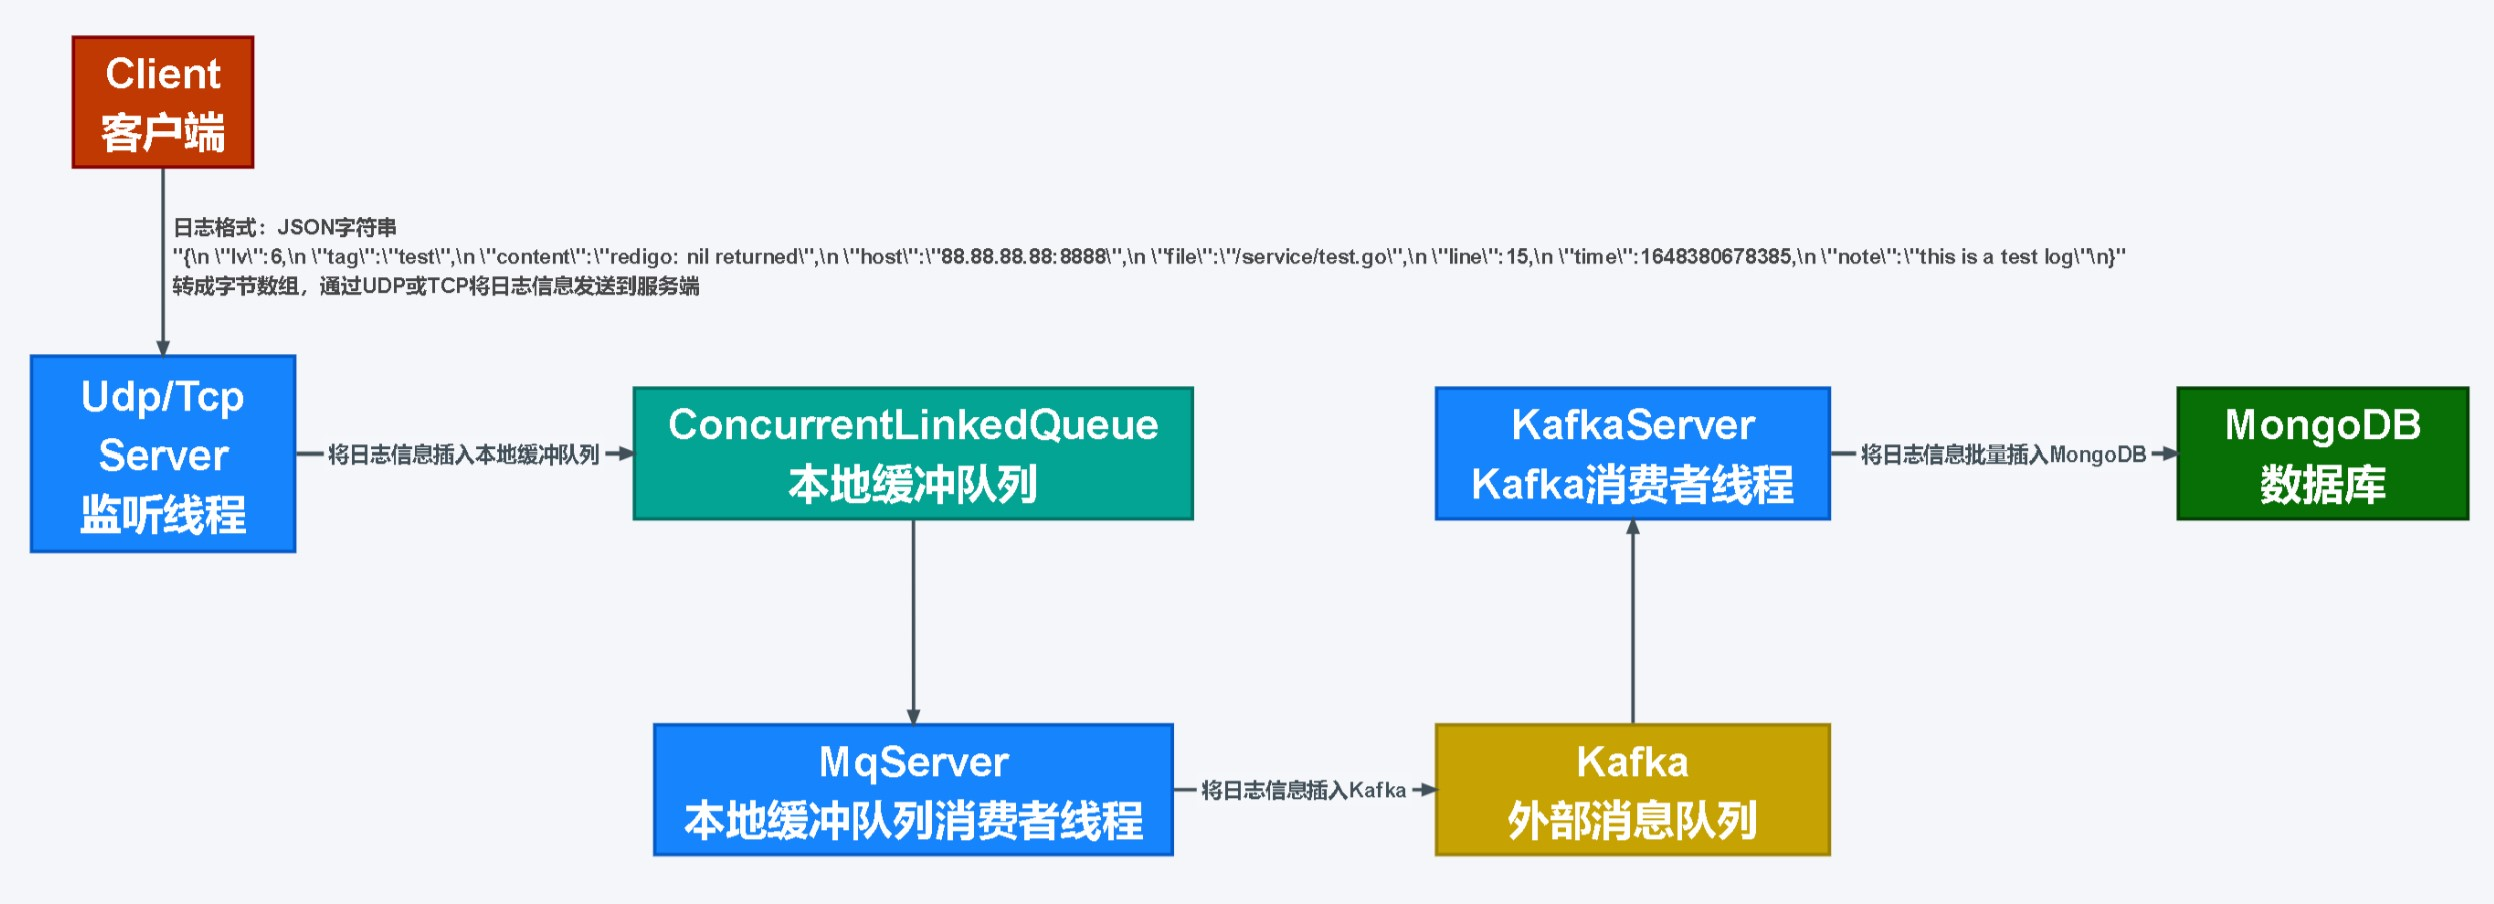
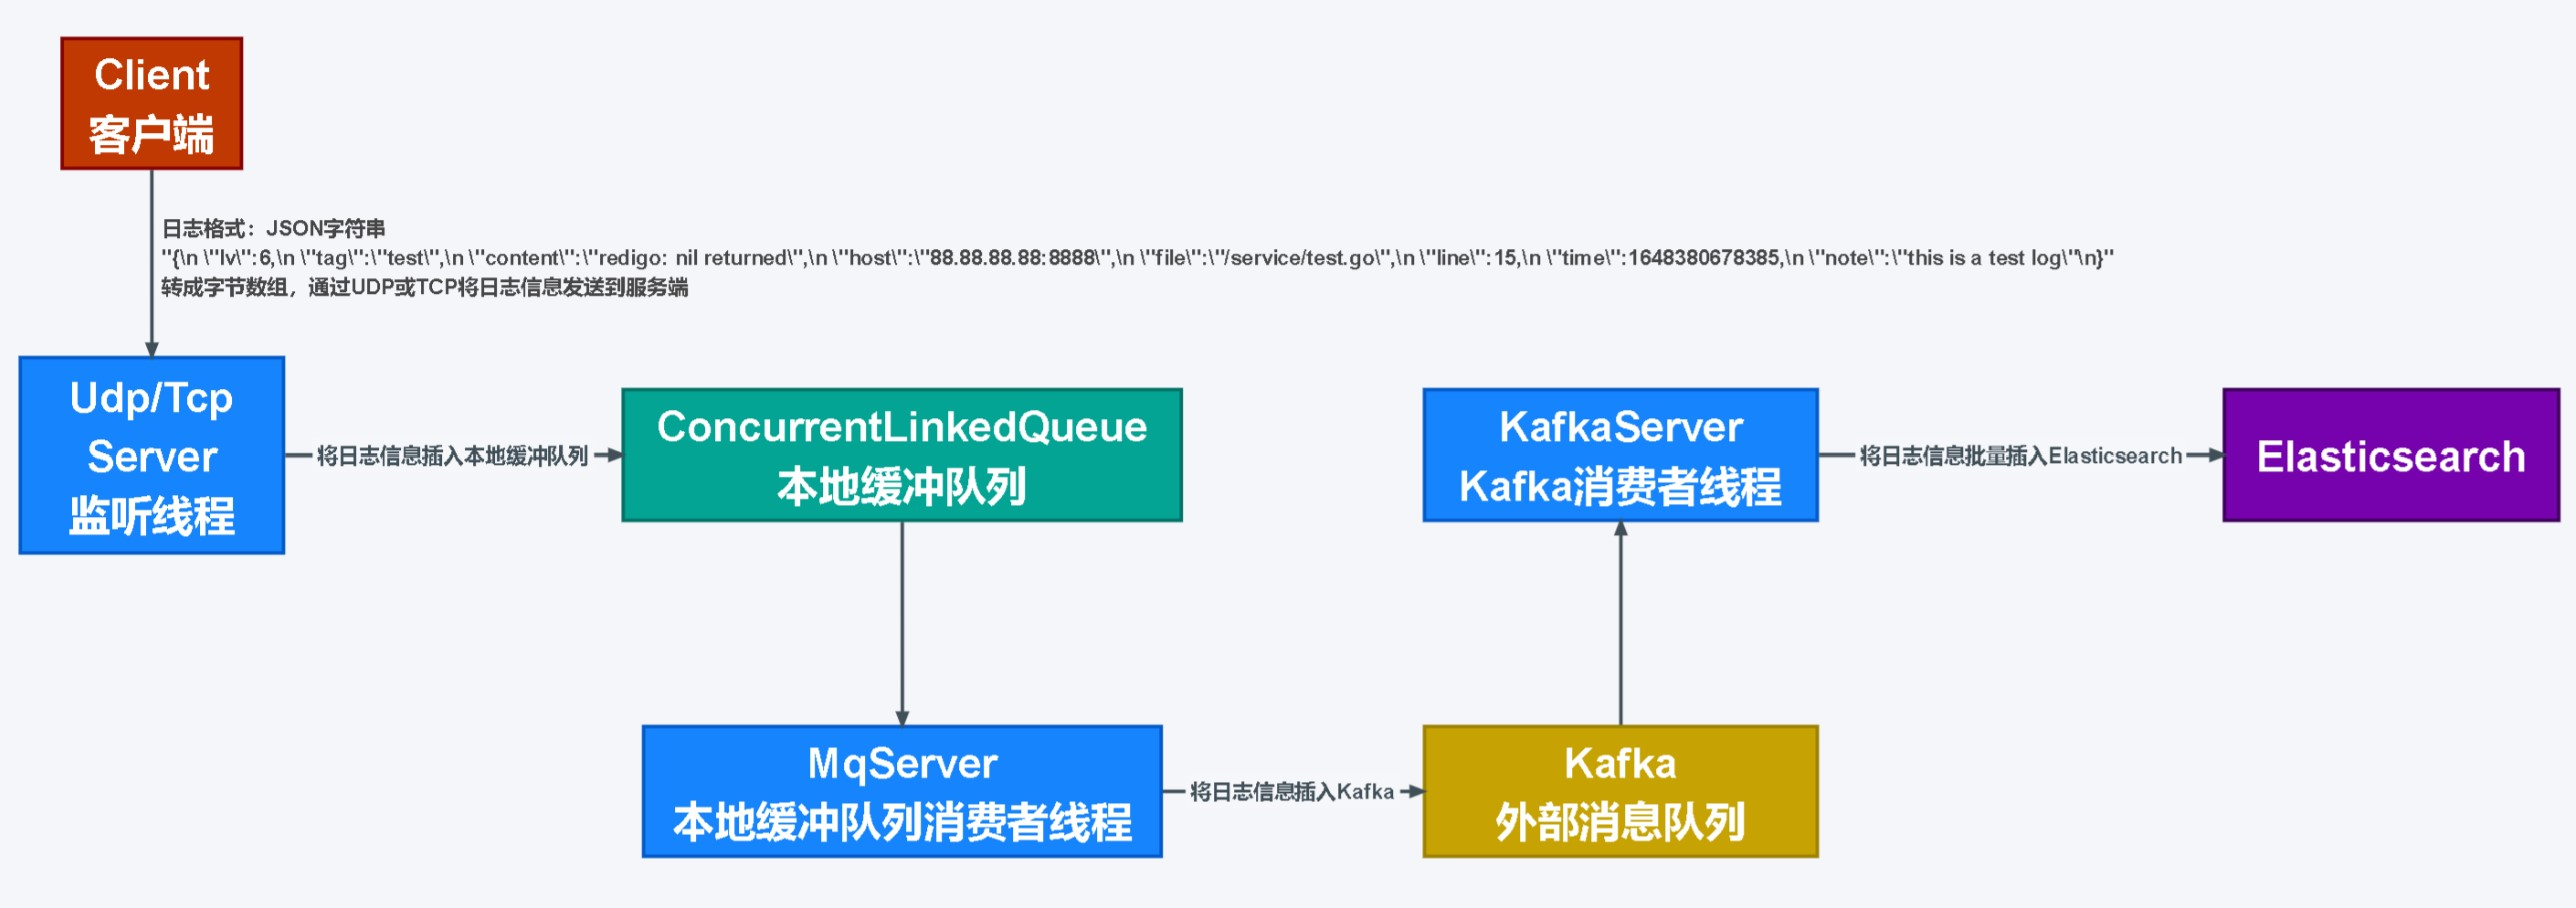
1

Changed region(s): [[0.0, 0.3717, 0.741, 0.9602], [0.5249, 0.4027, 1.0, 0.5885], [0.0, 0.031, 0.8645, 0.3407]]

diff --git a/src/main/java/com/dpwgc/ringlog/RinglogApplication.java b/src/main/java/com/dpwgc/ringlog/RinglogApplication.java
@@ -3,12 +3,25 @@ package com.dpwgc.ringlog;
 import org.springframework.boot.SpringApplication;
 import org.springframework.boot.autoconfigure.SpringBootApplication;
 import org.springframework.boot.web.servlet.ServletComponentScan;
+import org.springframework.context.annotation.Bean;
+import org.springframework.context.support.PropertySourcesPlaceholderConfigurer;
 import org.springframework.data.elasticsearch.repository.config.EnableElasticsearchRepositories;
 
 @EnableElasticsearchRepositories(basePackages = "com.dpwgc.ringlog.dao")
 @SpringBootApplication
 @ServletComponentScan
 public class RinglogApplication {
+
+    /**
+     * 让@Document(indexName = "xxx")能读取到配置文件中的字段
+     */
+    @Bean
+    public static PropertySourcesPlaceholderConfigurer placeholderConfigurer() {
+
+        PropertySourcesPlaceholderConfigurer c = new PropertySourcesPlaceholderConfigurer();
+        c.setIgnoreUnresolvablePlaceholders(true);
+        return c;
+    }
 
     public static void main(String[] args) {
         SpringApplication.run(RinglogApplication.class, args);

diff --git a/src/main/java/com/dpwgc/ringlog/controller/HelloController.java b/src/main/java/com/dpwgc/ringlog/controller/HelloController.java
@@ -1,0 +1,14 @@
+package com.dpwgc.ringlog.controller;
+
+import org.springframework.web.bind.annotation.RequestMapping;
+import org.springframework.web.bind.annotation.RestController;
+
+@RestController
+@RequestMapping("/")
+public class HelloController {
+
+    @RequestMapping("/")
+    public String hello() {
+        return "hello";
+    }
+}

diff --git a/src/main/java/com/dpwgc/ringlog/dao/LogMsg.java b/src/main/java/com/dpwgc/ringlog/dao/LogMsg.java
@@ -8,7 +8,7 @@ import org.springframework.data.elasticsearch.annotations.FieldType;
 /**
  * 日志信息模板
  */
-@Document(indexName = "ring_log")
+@Document(indexName = "#{@indexName}")
 public class LogMsg {
 
     @Id

diff --git a/README.md b/README.md
@@ -1,22 +1,22 @@
 # RingLog
-## 基于Spring Boot整合MongoDB、Kafka及本地缓冲队列实现的日志收集系统。
+## 基于Spring Boot整合Elasticsearch、Kafka及本地缓冲队列实现的日志收集系统。
 ***
 
 ### 实现原理
-* 使用MongoDB存储日志数据。
+* 使用Elasticsearch存储日志数据。
 * 使用UDP/TCP监听接收外来日志信息。
 * 使用ConcurrentLinkedQueue实现本地缓冲队列，所有外来日志信息先插入本地缓冲队列，再由后台线程（一个或者多个消费者线程）将日志信息异步发送至外部消息队列Kafka。
-* 由Kafka消费者将日志信息批量插入MongoDB数据库。
+* 由Kafka消费者将日志信息批量插入Elasticsearch。
 
 ![avatar](./img1.jpg)
 ***
 
 ### 启动项目
-* 部署MongoDB/MongoDB集群，创建数据库：ring_log。
+* 部署Elasticsearch/Elasticsearch集群，创建索引：ring_log。
 * 部署Kafka/Kafka集群，创建Topic：ring_log。
-* 填写resources/application.properties配置文件，填写Mongodb配置、Kafka配置、UDP/TCP监听服务配置。
-* 启动项目（应用首次启动将在指定MongoDB数据库下自动创建user_info集合）。
-* 启动后访问网页控制台: http://127.0.0.1:9000/#/ 。
+* 填写resources/application.properties配置文件，填写Elasticsearch配置、Kafka配置、UDP/TCP监听服务配置。
+* 启动项目，访问 http://127.0.0.1:9000/ ，返回"hello"表明项目启动成功"。
+* 使用Kibana连接Elasticsearch并检索日志。
 
 ![avatar](./img2.jpg)
 ***
@@ -70,152 +70,75 @@
 * 6 Notice: normal but significant condition 不影响正常功能，但需要注意的消息
 * 7 Informational: informational messages 系统正常运行情况下的一般信息
 * 8 Debug: debug-level messages 开发时对系统进行诊断的信息
+
 ***
 
-### 检索日志方式
-
-#### HTTP接口查询
-
-#### 接口URL
-> http://127.0.0.1:9000/log/getLog
-
-#### 请求方式
-> POST
-
-#### Content-Type
-> form-data
-
-#### 请求Header参数
-参数名 | 示例值 | 参数类型 | 是否必填 | 参数描述
---- | --- | --- | --- | ---
-user | admin | Text | 是 | user_info集合中的管理员账号
-pwd | 123456 | Text | 是 | user_info集合中的管理员密码
-#### 请求Body参数
-参数名 | 示例值 | 参数类型 | 是否必填 | 参数描述
---- | --- | --- | --- | ---
-start | 1648380678385 | Text | 是 | 时间区间（开始）
-end | 1648380678386 | Text | 是 | 时间区间（结尾）
-lv | 6 | Text | 否 | 日志级别
-tag | test | Text | 否 | 日志标签
-content | redis | Text | 否 | 日志内容
-host | 88.88.88.88:8888 | Text | 否 | 日志所属主机
-file | /service/test.go | Text | 否 | 日志所属文件
-note | this is a test log | Text | 否 | 日志备注信息
-#### 成功响应示例
-```json
-{
-	"code": 200,
-	"msg": "success",
-	"data": [
-		{
-			"_id": {
-				"time": 1649486669000,
-				"date": "2022-04-09T06:44:29.000+00:00",
-				"timestamp": 1649486669,
-				"new": false,
-				"machine": -1478292246,
-				"inc": 725857564,
-				"timeSecond": 1649486669
-			},
-			"lv": 6,
-			"tag": "test-0.0.1",
-			"content": "redigo: nil returned",
-			"host": "88.88.88.88:8888",
-			"file": "/service/test.go",
-			"note": "this is a test log",
-			"line": 15,
-			"time": 1648380678385
-		},
-		{
-			"_id": {
-				"time": 1649486670000,
-				"date": "2022-04-09T06:44:30.000+00:00",
-				"timestamp": 1649486670,
-				"new": false,
-				"machine": -1478292246,
-				"inc": 725857565,
-				"timeSecond": 1649486670
-			},
-			"lv": 6,
-			"tag": "test-0.0.1",
-			"content": "redigo: nil returned",
-			"host": "88.88.88.88:8888",
-			"file": "/service/test.go",
-			"note": "this is a test log",
-			"line": 15,
-			"time": 1648380678385
-		}
-	]
-}
-```
-#### 失败响应示例
-* 管理员用户身份验证失败（user与pwd不匹配）
-```json
-{
-	"code": 440,
-	"msg": "authentication error"
-}
-```
-***
-
-### Mongodb数据库
-#### log_data集合（日志数据，用于存储所有日志信息）
+### Elasticsearch数据存储
+#### ring_log索引（用于存储所有日志信息）
 * 存储文档格式
 ```json
 {
-  "_id": {
-    "$oid": "62512b4da7e30cea2b43b51c"
-  },
-  "lv": 6,
-  "tag": "test-0.0.1",
-  "content": "redigo: nil returned",
-  "host": "88.88.88.88:8888",
-  "file": "/service/test.go",
-  "note": "this is a test log",
-  "line": 15,
-  "time": {
-    "$numberLong": "1648380678385"
+  "_index": "ring_log",
+  "_type": "_doc",
+  "_id": "X4UUIoAB2Qo5g_1D2_nM",
+  "_version": 1,
+  "_score": 0,
+  "fields": {
+    "note": [
+      "this is a test log"
+    ],
+    "file": [
+      "/service/test.go"
+    ],
+    "line": [
+      "15"
+    ],
+    "host": [
+      "88.88.88.88:8888"
+    ],
+    "lv": [
+      "6"
+    ],
+    "time": [
+      "1648380678385"
+    ],
+    "tag": [
+      "test-0.0.1"
+    ],
+    "_class": [
+      "com.dpwgc.ringlog.dao.LogMsg"
+    ],
+    "_class.keyword": [
+      "com.dpwgc.ringlog.dao.LogMsg"
+    ],
+    "content": [
+      "redigo: nil returned"
+    ]
   }
 }
 ```
-#### user_info集合（管理员用户信息，用于检索日志时鉴权）
-* 存储文档格式
-```json
-{
-    "_id": {
-        "$oid": "624ebc1f728f90ef47d09f45"
-    },
-    "user": "admin",
-    "pwd": "e10adc3949ba59abbe56e057f20f883e"
-}
-```
-pwd密码用MD5加密。
-当user_info不存在或user_info内没有用户信息时，应用会自动创建用户，默认用户名admin，密码123456。
 
 *** 
 
 ### 项目结构
 * config `配置类`
-   * InterceptorConfig.java `拦截器配置`
-   * MongodbConfig.java `MongoDB连接配置`
+   * EsConfig.java `Elasticsearch连接配置`
    * TcpConfig.java `TCP监听配置`
    * UdpConfig.java `UDP监听配置`
 * controller `控制器层`
-   * LogController.java `日志查询接口`
+   * HelloController.java `web访问接口`
 * dao `模板层`
    * LogMsg.java `日志消息模板`
 * interceptor `拦截器`
    * ApiInterceptor.java `HTTP接口拦截器`
+* mapper `接口层`
+   * EsMapper.java `Elasticsearch操作接口`
 * server `监听服务层`
    * KafkaServer.java `Kafka消息队列消费者服务`
    * MqServer.java `本地缓冲队列消费者服务`
    * TcpServer.java `TCP监听消息服务`
    * UdpServer.java `UDP监听消息服务`
-* service `HTTP接口服务层`
-   * LogService.java `日志查询服务`
 * util ``
    * LogUtil.java `日志操作工具`
-   * Md5Util.java `MD5密钥生成工具`
-   * MongodbUtil.java `MongoDB操作工具`
-   * ResultUtil.java `接口返回模板`
+   * EsUtil.java `Elasticsearch操作工具`
 * RinglogApplication.java `启动类`
